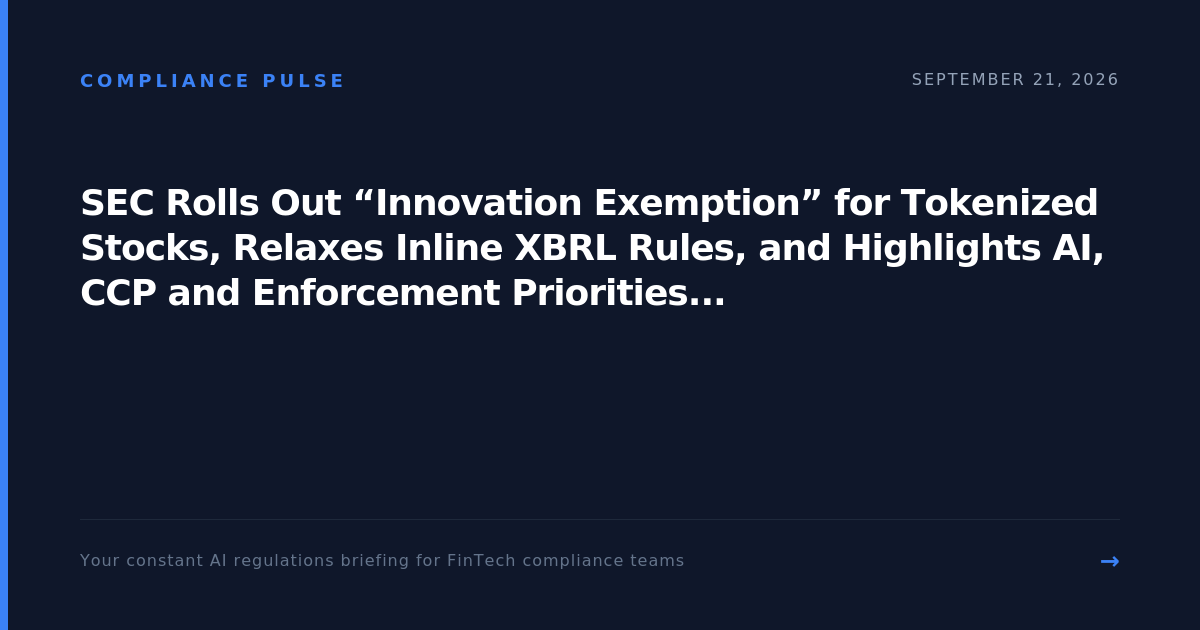
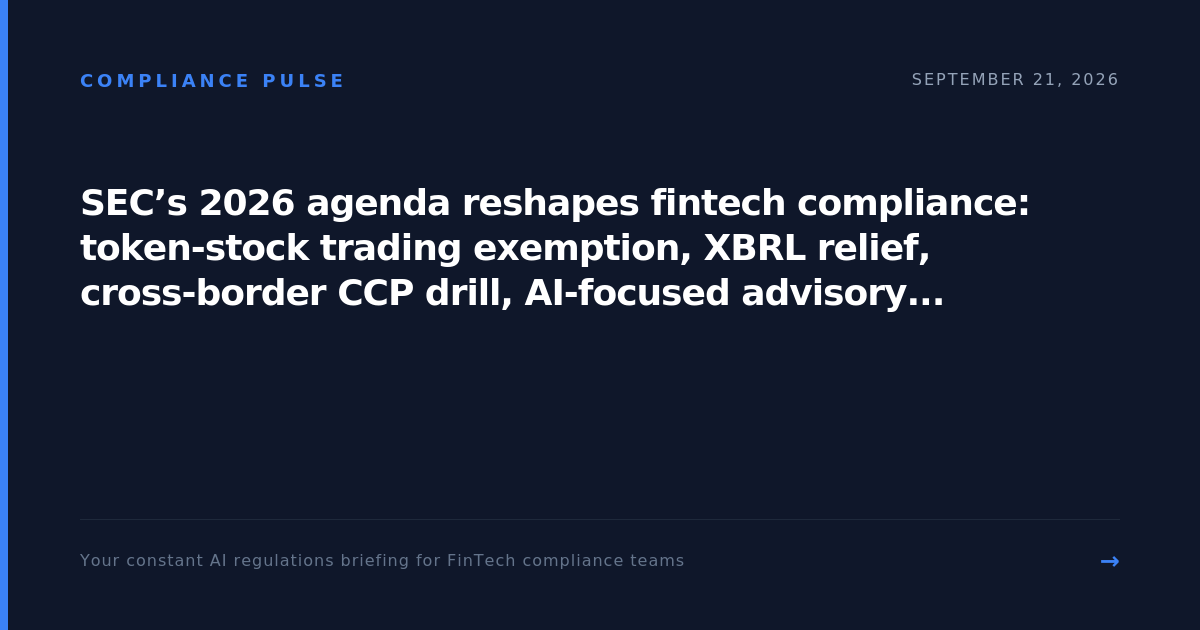
Daily AI regulations compliance draft + header 2026-09-21

Changed region(s): [[0.0617, 0.3016, 0.925, 0.5127]]

diff --git a/draft_20260921.md b/draft_20260921.md
@@ -1,44 +1,46 @@
 **HEADLINE**  
-SEC Rolls Out “Innovation Exemption” for Tokenized Stocks, Relaxes Inline XBRL Rules, and Highlights AI, CCP and Enforcement Priorities – What Fintech Compliance Teams Must Address Right Now  
+SEC’s 2026 agenda reshapes fintech compliance: token‑stock trading exemption, XBRL relief, cross‑border CCP drill, AI‑focused advisory meeting, and a high‑profile fraud enforcement.
 
 ---
 
 ### WHAT HAPPENED  
 
-The U.S. Securities and Exchange Commission announced five separate actions on September 21, 2026 that together reshape the regulatory landscape for digital‑asset platforms, reporting processes, and emerging technology oversight.  
+**1. Innovation exemption for tokenized NMS stock** – On September 21, the SEC announced a new “Innovation Exemption” that permits on‑chain trading of certain tokenized securities that meet the definition of a National Market System (NMS) stock. The exemption is limited to “eligible” tokens that are fully backed by underlying shares, are listed on a recognized U.S. exchange, and are offered through a broker‑dealer or a registered market‑making platform. The agency opened a 60‑day comment period to refine the rule‑making language and to gather data on market‑structure impacts.
 
-1. **Innovation Exemption for Tokenized NMS Stock** – The SEC issued a rule‑making request that would create a limited “innovation exemption” allowing on‑chain trading of tokenized securities that are listed on a national market system (NMS). The exemption is designed to let qualified platforms issue and trade digital representations of listed equities without having to register each token as a separate security. The agency is seeking public comment on the scope, eligibility criteria, and required safeguards.  
+**2. Relief from Inline XBRL filing requirements** – The Commission issued an order granting exemptive relief from specific Inline XBRL (iXBRL) filing obligations that were adopted on Dec. 16, 2024. The relief applies to filers that demonstrate a material burden from the iXBRL mandate, such as emerging‑market issuers, certain foreign private issuers, and smaller reporting companies. Relieved parties may submit their reports in the traditional XBRL format or in an alternative electronic form approved by the SEC.
 
-2. **Exemptive Relief from Certain Inline XBRL Requirements** – The Commission granted an order relieving filers from specific Inline XBRL (iXBRL) filing obligations that were adopted on Dec. 16, 2024. The relief applies to a subset of reporting entities that meet defined size and reporting‑frequency thresholds, allowing them to submit the affected data in traditional XBRL or other formats for the time being.  
+**3. Joint U.S.–U.K. CCP resolution tabletop** – Senior officials from the SEC, FDIC, CFTC, Federal Reserve, and the Bank of England conducted a tabletop exercise on Sept. 3, 2026, to explore coordinated resolution of a failing central counterparty (CCP). The readout highlighted gaps in cross‑border information sharing, the need for harmonized legal frameworks, and the importance of real‑time data feeds to trigger contingency plans.
 
-3. **Joint U.S.–U.K. Central Counterparty (CCP) Resolution Exercise** – Senior officials from the SEC, FDIC, CFTC, Federal Reserve, and the Bank of England convened on Sept. 3, 2026 for a tabletop exercise focused on the orderly resolution of a failing CCP. The readout highlights the growing coordination between U.S. and U.K. regulators on cross‑border risk mitigation and outlines potential reporting and governance expectations for market participants that rely on CCP services.  
+**4. Enforcement action against a New Jersey Ponzi scheme** – The SEC filed charges against Ernest Ossei Boateng and two of his New Jersey‑based entities for allegedly raising about $16 million from more than 200 investors through a fraudulent “wealth‑creation” platform. The complaint alleges misrepresentations about investment returns, misuse of funds for personal expenses, and failure to register the offering.
 
-4. **Enforcement Action – $16 Million Ponzi Scheme** – The SEC charged Ernest Ossei Boateng and two New Jersey‑based entities, Intercontinental Wealth Network LLC and I Wealth Network LP, with running an alleged $16 million securities fraud scheme. The complaint alleges false promises of high‑return crypto‑linked investments and the misappropriation of investor funds.  
-
-5. **Investor Advisory Committee (IAC) Meeting on AI** – The SEC’s IAC will hold a public meeting on Sept. 10, 2026 to discuss the use of artificial‑intelligence tools in the public markets. Topics include AI‑driven trading, disclosure of AI‑generated content, and the Commission’s approach to monitoring AI‑related market manipulation.  
+**5. Investor Advisory Committee (IAC) meeting on AI** – The SEC’s Investor Advisory Committee will convene on Sept. 10, 2026, to discuss the use of artificial‑intelligence technologies in public markets. Topics include AI‑driven trading, disclosure of AI‑generated research, and the agency’s emerging guidance on algorithmic risk management.
 
 ---
 
 ### WHY IT MATTERS  
 
-**Tokenized‑stock exemption reshapes product development** – Fintech firms that have been waiting for regulatory clarity on issuing digital shares can now design on‑chain trading services that fall under the new exemption, provided they meet the SEC’s eligibility thresholds (e.g., the underlying equity must be listed on an NMS, the token must be fully backed, and the platform must implement robust custody and AML controls). This opens a fast‑track path to market, but also creates a compliance “border” where the exemption ends and traditional securities law resumes. Companies must be ready to demonstrate that each token is a 1:1 representation of the underlying share and that investor protections (e.g., voting rights, dividend flow) are preserved.  
+**Tokenized stocks open a regulated on‑chain market** – The innovation exemption signals that the SEC will tolerate, and even encourage, blockchain‑based trading of traditional equities—provided the tokens are fully collateralized and the trading venue is registered. Fintech firms that offer custodial services, brokerage APIs, or settlement infrastructure must now assess whether their platforms can support the exemption’s eligibility criteria. Non‑compliant token offerings could be deemed unregistered securities, exposing firms to enforcement risk.
 
-**XBRL relief eases reporting burden, but adds risk of inconsistency** – The iXBRL relief means that qualifying filers can avoid the costly re‑engineering of reporting systems that many mid‑size firms were still grappling with. However, the temporary nature of the relief and the possibility of a future reinstatement mean compliance teams must maintain dual‑track capabilities: continue supporting iXBRL for any filing that falls outside the exemption while leveraging the simplified process where allowed. Failure to track which reports are covered could lead to filing errors and potential enforcement.  
+**XBRL relief eases filing burdens for niche issuers** – The iXBRL exemption reduces the technical and cost barriers for smaller or foreign issuers that struggle with the inline format. For fintech service providers that build filing automation tools, the change expands the addressable market: clients who previously avoided U.S. reporting because of iXBRL costs may now return. However, firms must still ensure that any alternative filing format meets the SEC’s validation rules and that the exemption is properly documented.
 
-**Cross‑border CCP resolution planning raises governance stakes** – The joint U.S.–U.K. exercise signals that regulators expect market participants to have detailed contingency plans for a CCP failure that could affect cross‑border clearing. Fintech platforms that rely on CCP services—whether for derivatives, repo, or securities lending—must now assess whether their existing resolution‑of‑a‑CCP policies meet the heightened expectations for transparency, data sharing, and capital adequacy under a coordinated international framework.  
+**Cross‑border CCP resolution highlights systemic risk coordination** – The joint readout underscores that a CCP failure could cascade across U.S. and U.K. markets in milliseconds. Fintech platforms that provide real‑time clearing data, margin calculations, or trade‑life‑cycle services need robust contingency protocols. Failure to share accurate data with regulators during a crisis could trigger sanctions or loss of clearing privileges.
 
-**Enforcement underscores the need for rigorous vetting of crypto‑related offerings** – The Boateng case is a reminder that the SEC will continue to pursue fraudsters who blend traditional securities concepts with crypto marketing. Fintech firms that provide token‑sale services, advisory platforms, or “investment” products that reference digital assets must tighten Know‑Your‑Customer (KYC), anti‑money‑laundering (AML), and suitability checks. The case also illustrates that the SEC will look beyond the surface of a token’s structure to the underlying economic reality and the promises made to investors.  
+**Ponzi‑scheme enforcement reinforces investor‑protection focus** – The Boateng case demonstrates that the SEC will continue to pursue fraudsters who use fintech‑style platforms to solicit retail capital. Compliance teams should scrutinize onboarding, marketing, and fund‑flow practices for red flags such as promised guaranteed returns, opaque fee structures, or lack of registration. The high‑profile nature of the case will likely increase regulator scrutiny of “wealth‑network” models that blend social media outreach with investment products.
 
-**AI focus foreshadows disclosure and surveillance expectations** – The upcoming IAC meeting signals that the SEC is moving from exploratory discussion to concrete rulemaking on AI. Fintech firms that use AI for market‑making, pricing, or client‑facing chatbots should anticipate new reporting obligations (e.g., disclosing the use of AI in material communications) and enhanced surveillance requirements to detect AI‑generated market manipulation. Early alignment with the SEC’s emerging stance can reduce the risk of later enforcement actions.  
+**AI‑focused IAC meeting signals upcoming guidance** – The upcoming advisory committee discussion on AI suggests that the SEC is moving toward formal rules or best‑practice guidance on algorithmic trading, AI‑generated disclosures, and model risk. Fintech firms that embed AI in order routing, market‑making, or research generation should anticipate tighter documentation, testing, and monitoring requirements. Early alignment can prevent costly retrofits once formal guidance is issued.
 
 ---
 
 ### WHAT TO DO  
 
-- **Map tokenized‑stock offerings to the exemption criteria** – Conduct a gap analysis of any digital‑share products against the SEC’s eligibility thresholds (NMS listing, full backing, custody, AML/KYC). Document how voting rights, dividend flow, and corporate actions will be handled on‑chain, and prepare a compliance package for regulator review before launch.  
+- **Map token eligibility** – Conduct a gap analysis of your tokenized‑stock offerings against the exemption’s criteria (full share backing, U.S. exchange listing, registered broker‑dealer or market‑maker). Document compliance controls and be ready to respond to SEC comment letters.
 
-- **Update XBRL reporting workflows** – Identify which filings qualify for the iXBRL relief and adjust internal systems to submit those reports in the permitted format. Maintain a parallel iXBRL capability for any filings that remain subject to the original rule, and set calendar alerts for the anticipated reinstatement date so you can switch back without disruption.  
+- **Update XBRL filing workflows** – Identify clients who may qualify for the iXBRL relief. Adjust your filing platform to accept alternative XBRL formats and create a process for maintaining exemption documentation in case of SEC audit.
 
-- **Strengthen CCP resolution plans** – Review your firm’s contingency procedures for a CCP failure, focusing on data‑access protocols, capital buffers, and cross‑border communication channels. Incorporate the SEC‑CFTC‑Bank of England expectations outlined in the readout, and run a tabletop test within the next 90 days to validate the plan.  
+- **Strengthen CCP data‑sharing protocols** – Review real‑time data feeds that feed into clearing and settlement systems. Implement redundant data‑capture mechanisms and establish a clear escalation path to regulators in the event of a CCP distress scenario.
 
-- **Enhance fraud‑prevention controls for crypto‑related products** – Tighten KYC/AML screening for all token issuers and investors, implement robust suitability questionnaires, and require
+- **Enhance fraud‑risk screening** – Integrate AML/KYC checks with marketing‑material reviews. Flag promises of guaranteed returns, unregistered securities language, or unusually rapid fund movements. Train compliance staff to recognize the hallmarks of “wealth‑network” schemes.
+
+- **Prepare for AI governance** – Draft an internal AI‑risk framework covering model validation, bias testing, and audit trails for any AI‑driven product. Keep abreast of the IAC meeting outcomes and be ready to adjust policies once the SEC publishes guidance.
+
+- **Monitor the comment period** – Assign a point‑person to track the SEC’s 60‑day comment window on the tokenized‑stock exemption. Gather stakeholder feedback and be prepared to submit concise, data‑backed comments that reflect
